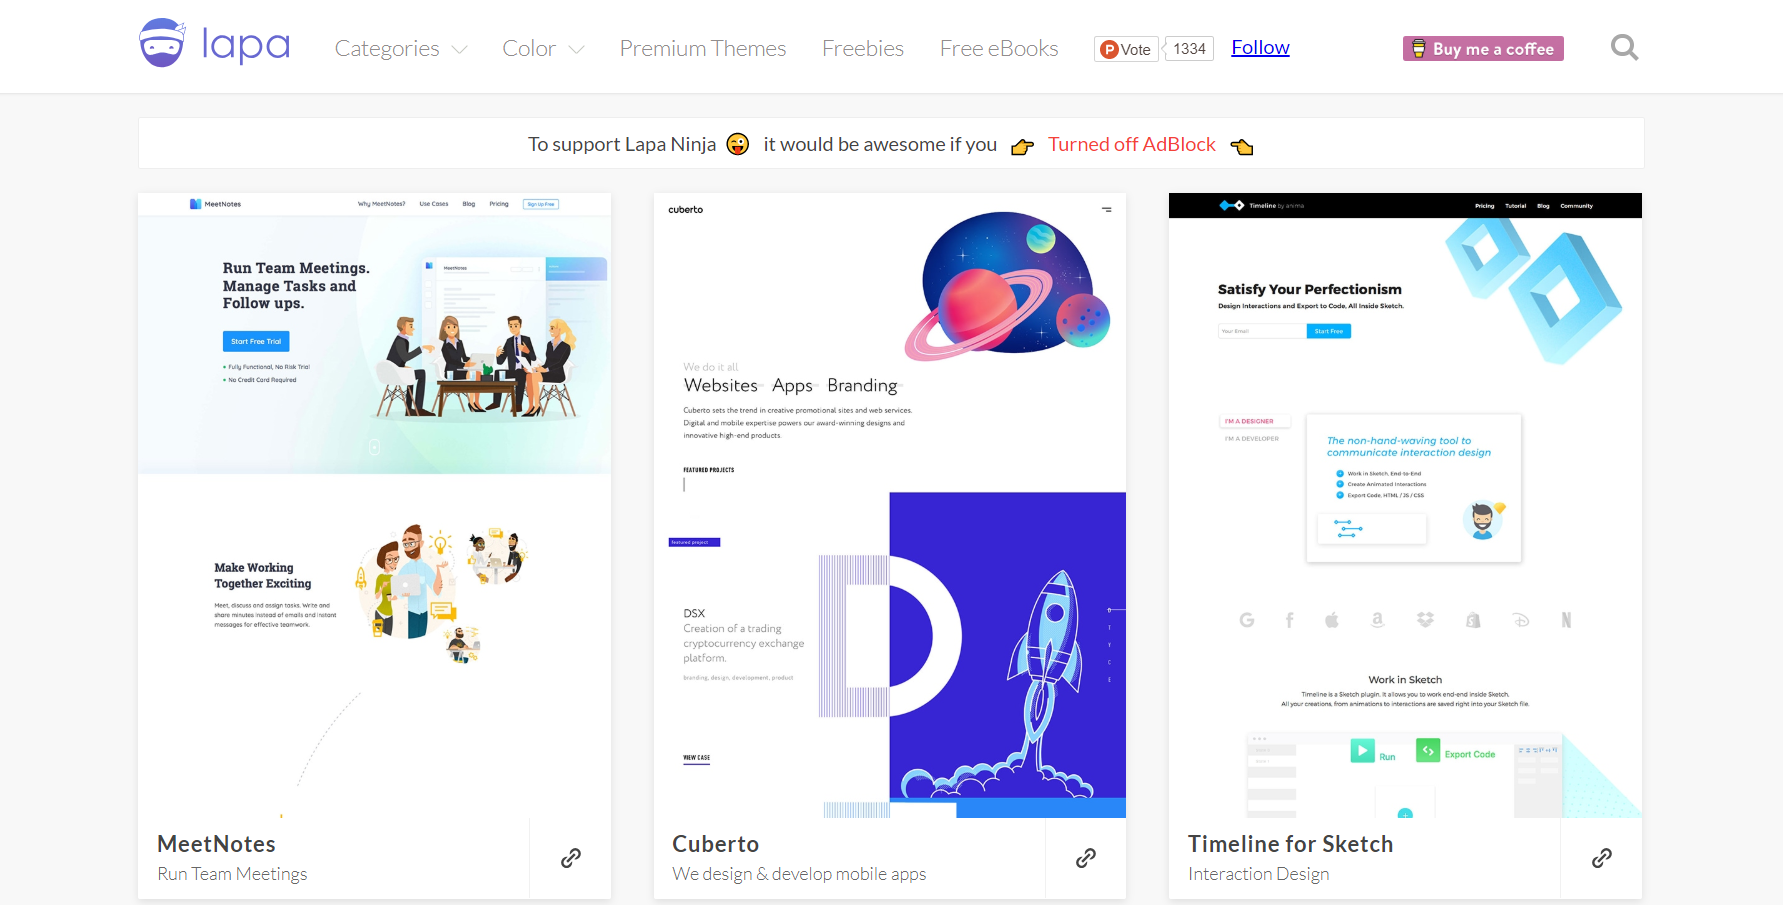
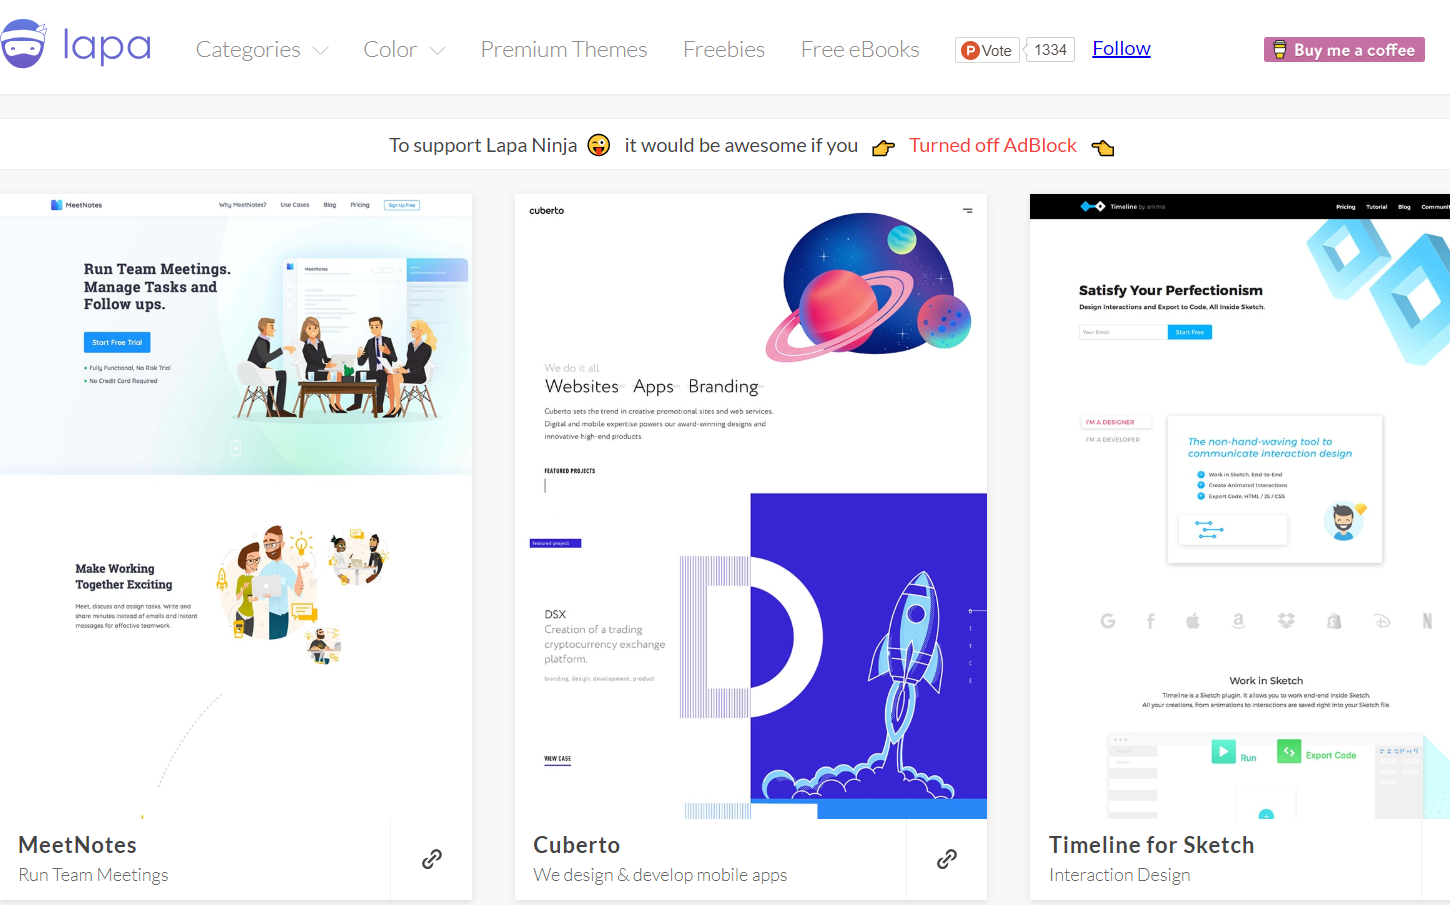
头部和左导航改变为fixed定位并且做了媒体查询。精选模块做了响应式布局（有点点瑕疵）。明天需要重新添加新的hover动画效果

diff --git a/src/pages/goodpick/GoodPick.vue b/src/pages/goodpick/GoodPick.vue
@@ -2,27 +2,32 @@
   <div class="basement">
     <div class="banner"></div>
     <div class="page-body">
-      <ul class="box-list">
-        <li class="box-item"  v-for="box in boxLists" :key="box.id">
-          <div class="img-info">
-            <a target="_blank" :href="box.link">
-              <img class="img-content" :src="box.imgUrl">
-            </a>
-          </div>
-          <div class="text-info">
-            <div class="text-title">
+      <div class="container">
+        <el-row :gutter="1">
+          <el-col :xs="24" :sm="24" :md="12" :lg="12" :xl="12" v-for="box in boxLists" :key="box.id">
+            <div class="content">
+            <div class="img-info">
               <a target="_blank" :href="box.link">
-             {{box.title}}
-             </a>
+               <!-- 1450 x 905比例 -->
+                <img class="img-content" :src="box.imgUrl">
+              </a>
             </div>
-            <div class="text-content" :title="box.content">
-              <p>
-                {{box.content}}
-              </p>
+            <div class="text-info">
+              <div class="text-title">
+                <a target="_blank" :href="box.link">
+               {{box.title}}
+               </a>
+              </div>
+              <div class="text-content" :title="box.content">
+                <p>
+                  {{box.content}}
+                </p>
+              </div>
             </div>
-          </div>
-        </li>
-      </ul>
+            </div>
+          </el-col>
+        </el-row>
+      </div>
     </div>
   </div>
 </template>
@@ -62,8 +67,7 @@ export default {
 
 <style lang="stylus" scoped>
 .basement {
-  width: 100%;
-
+  // width: 100%;
   .banner {
     width: 100%;
     height: 400px;
@@ -73,66 +77,87 @@ export default {
   }
 
   .page-body {
-    float: left;
-    min-height: 100vh;
-    width: 100%;
-    padding-top: 40px;
-    // padding-left: 180px;
-    background-color: #eee;
+    .container {
+      // float: left;
+      min-height: 100vh;
+      // width: 100%;
+      padding-top: 40px;
+      background-color: #eee;
+      margin-right: auto;
+      margin-left: auto;
 
-    .box-list {
-      width: 100%;
+      .el-row {
+        margin: 0px 90px;
 
-      .box-item {
-        position: relative;
-        float: left;
-        bottom: 0;
-        left: 0;
-        right: 0;
-        margin: 0 auto;
-        width: 474px;
-        min-height: 490px;
-        margin: 12px 20px;
-        padding: 23px;
-        overflow: hidden;
-        border-radius: 1px;
-        -webkit-box-shadow: 0 1px 2px 0 rgba(0, 0, 0, 0.1);
-        box-shadow: 0 1px 2px 0 rgba(0, 0, 0, 0.1);
-        background-color: #ffffff;
-        transition: all 0.2s ease 0s;
+        .content {
+          position: relative;
+          margin-bottom: 30px;
+          padding: 0 40px 40px 40px;
+          -webkit-box-shadow: 0 1px 2px 0 rgba(0, 0, 0, 0.1);
+          box-shadow: 0 1px 2px 0 rgba(0, 0, 0, 0.1);
+          background-color: #ffffff;
+          // transition: all 0.2s ease 0s;
+          border-radius: 4px;
+          margin: 20px 50px;
 
-        .img-info {
-          .img-content {
-            width: 474px;
-            height: 377px;
+          .img-info {
+            // display: flex;
+            // justify-content: center;
+            position: relative;
+            overflow: hidden;
+            padding-top: 80%;
+
+            .img-content {
+              margin-bottom: 0;
+              padding: 12px;
+              border-top-right-radius: 0;
+              border-top-left-radius: 0;
+              border-bottom-right-radius: 0;
+              border-bottom-left-radius: 0;
+              border: none;
+              position: absolute;
+              max-width: 100%;
+              min-width: 10%;
+              top: 0;
+              left: 0;
+            }
           }
-        }
 
-        .text-info {
-          .text-title {
-            text-align: center;
-            font-size: 25px;
-            padding: 10px 0;
-          }
+          .text-info {
+            .text-title {
+              // position: absolute;
+              // left: 40%;
+              // top: 75%;
+              // text-align: center;
+              // font-size: 190%;
+              // padding: 10px 0;
+              position: absolute;
+              font-size: 24px;
+              bottom: 18%;
+              left: 0;
+              right: 0;
+              text-align: center;
+              margin: 0;
+            }
 
-          .text-content {
-            line-height: 25px;
+            .text-content {
+              position: absolute;
+              left: 10%;
+              right: 10%;
+              bottom: 7%;
+              margin: 0;
+              line-height: 25px;
 
-            p {
-              overflow: hidden;
-              text-overflow: ellipsis;
-              display: -webkit-box;
-              -webkit-line-clamp: 3;
-              -webkit-box-orient: vertical;
+              p {
+                overflow: hidden;
+                text-overflow: ellipsis;
+                display: -webkit-box;
+                -webkit-line-clamp: 2;
+                -webkit-box-orient: vertical;
+              }
             }
           }
         }
-      }
-
-      .box-item:hover {
-        -webkit-box-shadow: 0 3px 5px 0 rgba(0, 0, 0, 0.1);
-        box-shadow: 0 3px 5px 0 rgba(0, 0, 0, 0.1);
-        bottom: 5px;
       }
     }
   }

diff --git a/src/pages/home/components/CenterFrame.vue b/src/pages/home/components/CenterFrame.vue
@@ -68,9 +68,11 @@ export default {
   display: flex;
 
   .left-nav {
-    // position: fixed;
-    // top: 61px;
-    // left: 0;
+    position: fixed;
+    top: 61px;
+    left: 0;
+    z-index: 9;
+    background-color: #fff;
     width: 220px;
     height: 100vh;
     borderlineright();
@@ -91,6 +93,20 @@ export default {
 
   .right-content {
     flex: 1;
+    position: absolute;
+    left: 221px;
+  }
+}
+
+@media screen and (max-width: 826px) {
+  .left-nav {
+    top: 121px !important;
+  }
+}
+
+@media screen and (max-width: 456px) {
+  .left-nav {
+    top: 181px !important;
   }
 }
 </style>

diff --git a/src/App.vue b/src/App.vue
@@ -41,9 +41,10 @@ export default {
 
 <style lang="stylus" scoped>
 .header-nav {
-  // position: fixed;
-  // top: 0;
-  // left: 0;
+  position: fixed;
+  top: 0;
+  left: 0;
+  z-index: 10;
   width: 100%;
 
   .logo {
